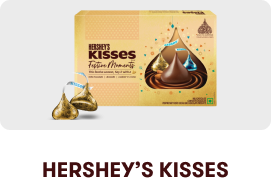
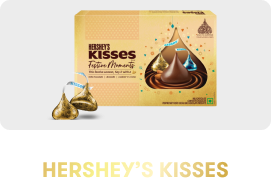
monday frontend progress

Changed region(s): [[0.1476, 0.8649, 0.8561, 0.973]]

diff --git a/public/diwali.css b/public/diwali.css
@@ -93,7 +93,8 @@ background-clip: text;
 }
 
 
-/* media query */
+/* media query */ 
+/* iphone12 and below */
 @media screen and (max-width: 390px) {
     .page-wrapper {
         padding: 50px 0px;
@@ -111,3 +112,149 @@ background-clip: text;
         height: 320px;
     }
 }
+
+/* iphone se 2020 */
+@media screen and (max-width: 375px) {
+    .diwali-rocket {
+        display: none;
+    }
+}
+
+/* landing page ends here */
+
+.wrapper {
+    height: 100dvh;
+    position: relative;
+    background-image: url("images/diwali-bg.png");
+    background-size: cover;
+    background-repeat: no-repeat;
+    background-position: top;
+}
+.surprise-heading-ns {
+    font-style: unset;
+    background: linear-gradient(90deg, #2D100C 0%, #61311A 100%);
+    background-clip: text;
+    -webkit-background-clip: text;
+    -webkit-text-fill-color: transparent;
+}
+.surprise-heading-ns span {
+    -webkit-text-fill-color: initial;
+}
+.surprise-heading {
+    margin-bottom: 0px;
+    background: linear-gradient(90deg, #2D100C 0%, #61311A 100%);
+    background-clip: text;
+    -webkit-background-clip: text;
+    -webkit-text-fill-color: transparent;
+}
+.diwali-btn {
+    width: 90%;
+    display: flex;
+    margin: 0px auto;
+    font-family:"snavely";
+    border-radius: 93px;
+    background: #2D1415;
+    border: none;
+}
+.diwali-btn h3 {
+    margin: 0px;
+    padding: 10px 20px;   
+    background: linear-gradient(94deg, #DFBC66 0.3%, #F7EF8A 29.46%, #FFF4C5 59.92%, #D2AC47 94.92%, #EDC967 124.73%);
+    background-clip: text;
+    -webkit-background-clip: text;
+    -webkit-text-fill-color: transparent;
+}
+.diwali-btn h3 span {
+    font-family: 'Poller One', serif;
+}
+.diwali-btn h3 span.card-emoji {
+    background: unset;
+    background-clip: unset;
+    -webkit-background-clip: unset;
+    -webkit-text-fill-color: initial;
+}
+.textarea-messages textarea {
+    margin: 0px auto 20px;
+    display: flex;
+    padding: 10px;
+    width: 90%;
+    height: 100px;
+    border-radius: 10px;
+    border: 5px solid #DFBC66;
+    background: linear-gradient(0deg, rgba(15, 15, 15, 0.15) 0%, rgba(15, 15, 15, 0.15) 100%), linear-gradient(94deg, rgba(223, 188, 102, 0.10) 0.29%, rgba(210, 172, 71, 0.10) 23.42%, rgba(247, 239, 138, 0.10) 41.19%, rgba(255, 244, 197, 0.10) 68.09%, rgba(237, 201, 103, 0.10) 98.89%);
+}
+.textarea-messages textarea::placeholder,
+.userName {
+    font-family: "brandon printed";
+    color: #452012!important;
+    filter: opacity(0.5);
+}
+::-webkit-input-placeholder { /* Edge */
+    color: #452012;
+    
+}
+.golden-wrapper {
+    background: #2D1415;
+}
+.title-ns {
+    background: linear-gradient(94deg, #DFBC66 0.3%, #F7EF8A 29.46%, #FFF4C5 59.92%, #D2AC47 94.92%, #EDC967 124.73%);
+    background-clip: text;
+    -webkit-background-clip: text;
+    -webkit-text-fill-color: transparent;
+}
+.wrapperdiv .diwali-diya {
+    bottom: -7px;
+}
+.wrapperdiv .diwali-rocket {
+    bottom: -40px;
+}
+.form-part-1 {
+    display: none;
+}
+/* .form-part-2 {
+    display: none;
+} */
+.camera-tag {
+    color: unset;
+    background: linear-gradient(90deg, #2D100C 0%, #61311A 100%);
+    background-clip: text;
+    -webkit-background-clip: text;
+    -webkit-text-fill-color: transparent;
+}
+.camera-tag span {
+    -webkit-text-fill-color: initial;
+}
+.caption-ns {
+    width: 90%;
+    margin: 0px auto 15px;
+    font-family: "Walsheim";
+    color: unset;
+    background: linear-gradient(90deg, #2D100C 0%, #61311A 100%);
+    background-clip: text;
+    -webkit-background-clip: text;
+    -webkit-text-fill-color: transparent;
+}
+.upload-outerdiv {
+    background-image: url('images/kisses-shape-bg.png');
+    background-size: contain;
+    background-repeat: repeat-y;
+}
+
+/* form ends here */
+
+
+.loading-screen {
+    background-image: url("images/diwali-bg.png");
+    background-size: cover;
+    background-repeat: no-repeat;
+    background-position: top;
+}
+.loading-message h4 span {
+    background: linear-gradient(90deg, #2D100C 0%, #61311A 100%);
+    background-clip: text;
+    -webkit-background-clip: text;
+    -webkit-text-fill-color: transparent;
+}
+/* .loading-spinner .spinner-ns {
+    background: linear-gradient(90deg, #2D100C 0%, #61311A 100%);
+} */

diff --git a/public/main.css b/public/main.css
@@ -486,8 +486,7 @@ line-height: normal;
 .surprise-heading{
   font-family: "Walsheim";
   color: #EFBE7F;
-  padding-top: 16px;
-  line-height: 10px;
+  padding-top: 0px;
 }
 ::-webkit-input-placeholder { /* Edge */
   color: #EFBE7F;
@@ -583,7 +582,7 @@ line-height: normal;
   font-weight: 250;
 
 }
-.userName::placeholder {
+/* .userName::placeholder {
   color: rgba(246, 218, 173, 0.1);
 }
 input:-webkit-autofill,
@@ -594,7 +593,7 @@ input:-webkit-autofill:active{
     -webkit-text-fill-color: #EFBE7F;
     transition: background-color 5000s ease-in-out 0s;
     box-shadow: inset 0 0 20px 20px #23232329;
-}
+} */
 .userName:focus {
   outline: none;
 }
@@ -1997,7 +1996,7 @@ a.option-btn {
 }
 .loading-spinner .spinner-ns {
   border: unset;
-  background: linear-gradient(124deg, #FDEAB1 0%, #F6CD73 100%);
+  background: linear-gradient(90deg, #2D100C 0%, #61311A 100%);
   background-clip: text;
   -webkit-background-clip: text;
   -webkit-text-fill-color: transparent;
